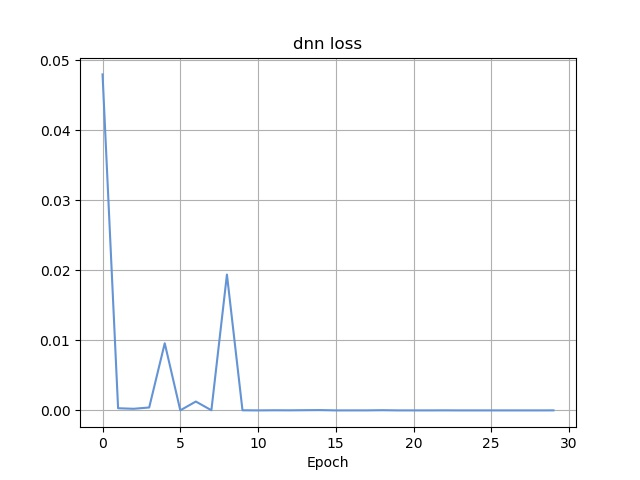
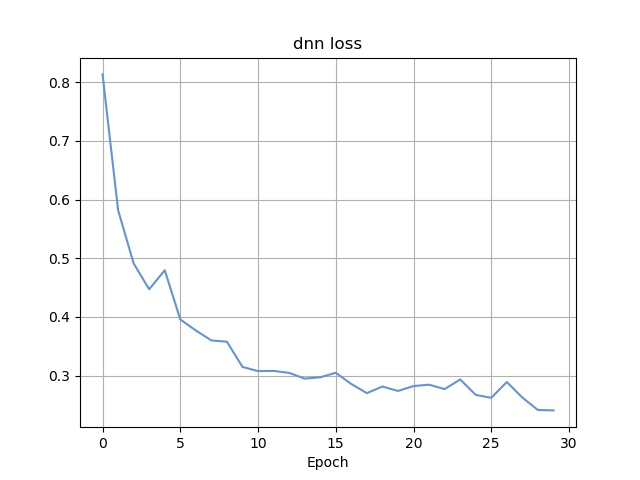
1.12

diff --git a/plt.py b/plt.py
@@ -9,19 +9,19 @@ with open("./dnn_accuracy", "r") as f:
 
 fig = plt.figure()
 
-ax = fig.add_subplot(111)
-ax.plot(np.arange(len(loss)), loss, color='#6593d3')
-ax.grid(True)
-ax.set_xlabel('Epoch')
-ax.set_title('dnn loss')
-# plt.savefig('./dnn_loss.jpg')
-
 # ax = fig.add_subplot(111)
-# ax.plot(np.arange(len(test_accuracy)), test_accuracy, color='red')
+# ax.plot(np.arange(len(loss)), loss, color='#6593d3')
 # ax.grid(True)
 # ax.set_xlabel('Epoch')
-# ax.set_title('Accuracy on testdata')
-# plt.savefig('./dnn_accuracy.2.jpg')
+# ax.set_title('dnn loss')
+# plt.savefig('./dnn_loss.jpg')
+
+ax = fig.add_subplot(111)
+ax.plot(np.arange(len(test_accuracy)), test_accuracy, color='red')
+ax.grid(True)
+ax.set_xlabel('Epoch')
+ax.set_title('Accuracy on testdata')
+plt.savefig('./dnn_accuracy.jpg')
 
 plt.show()
 
